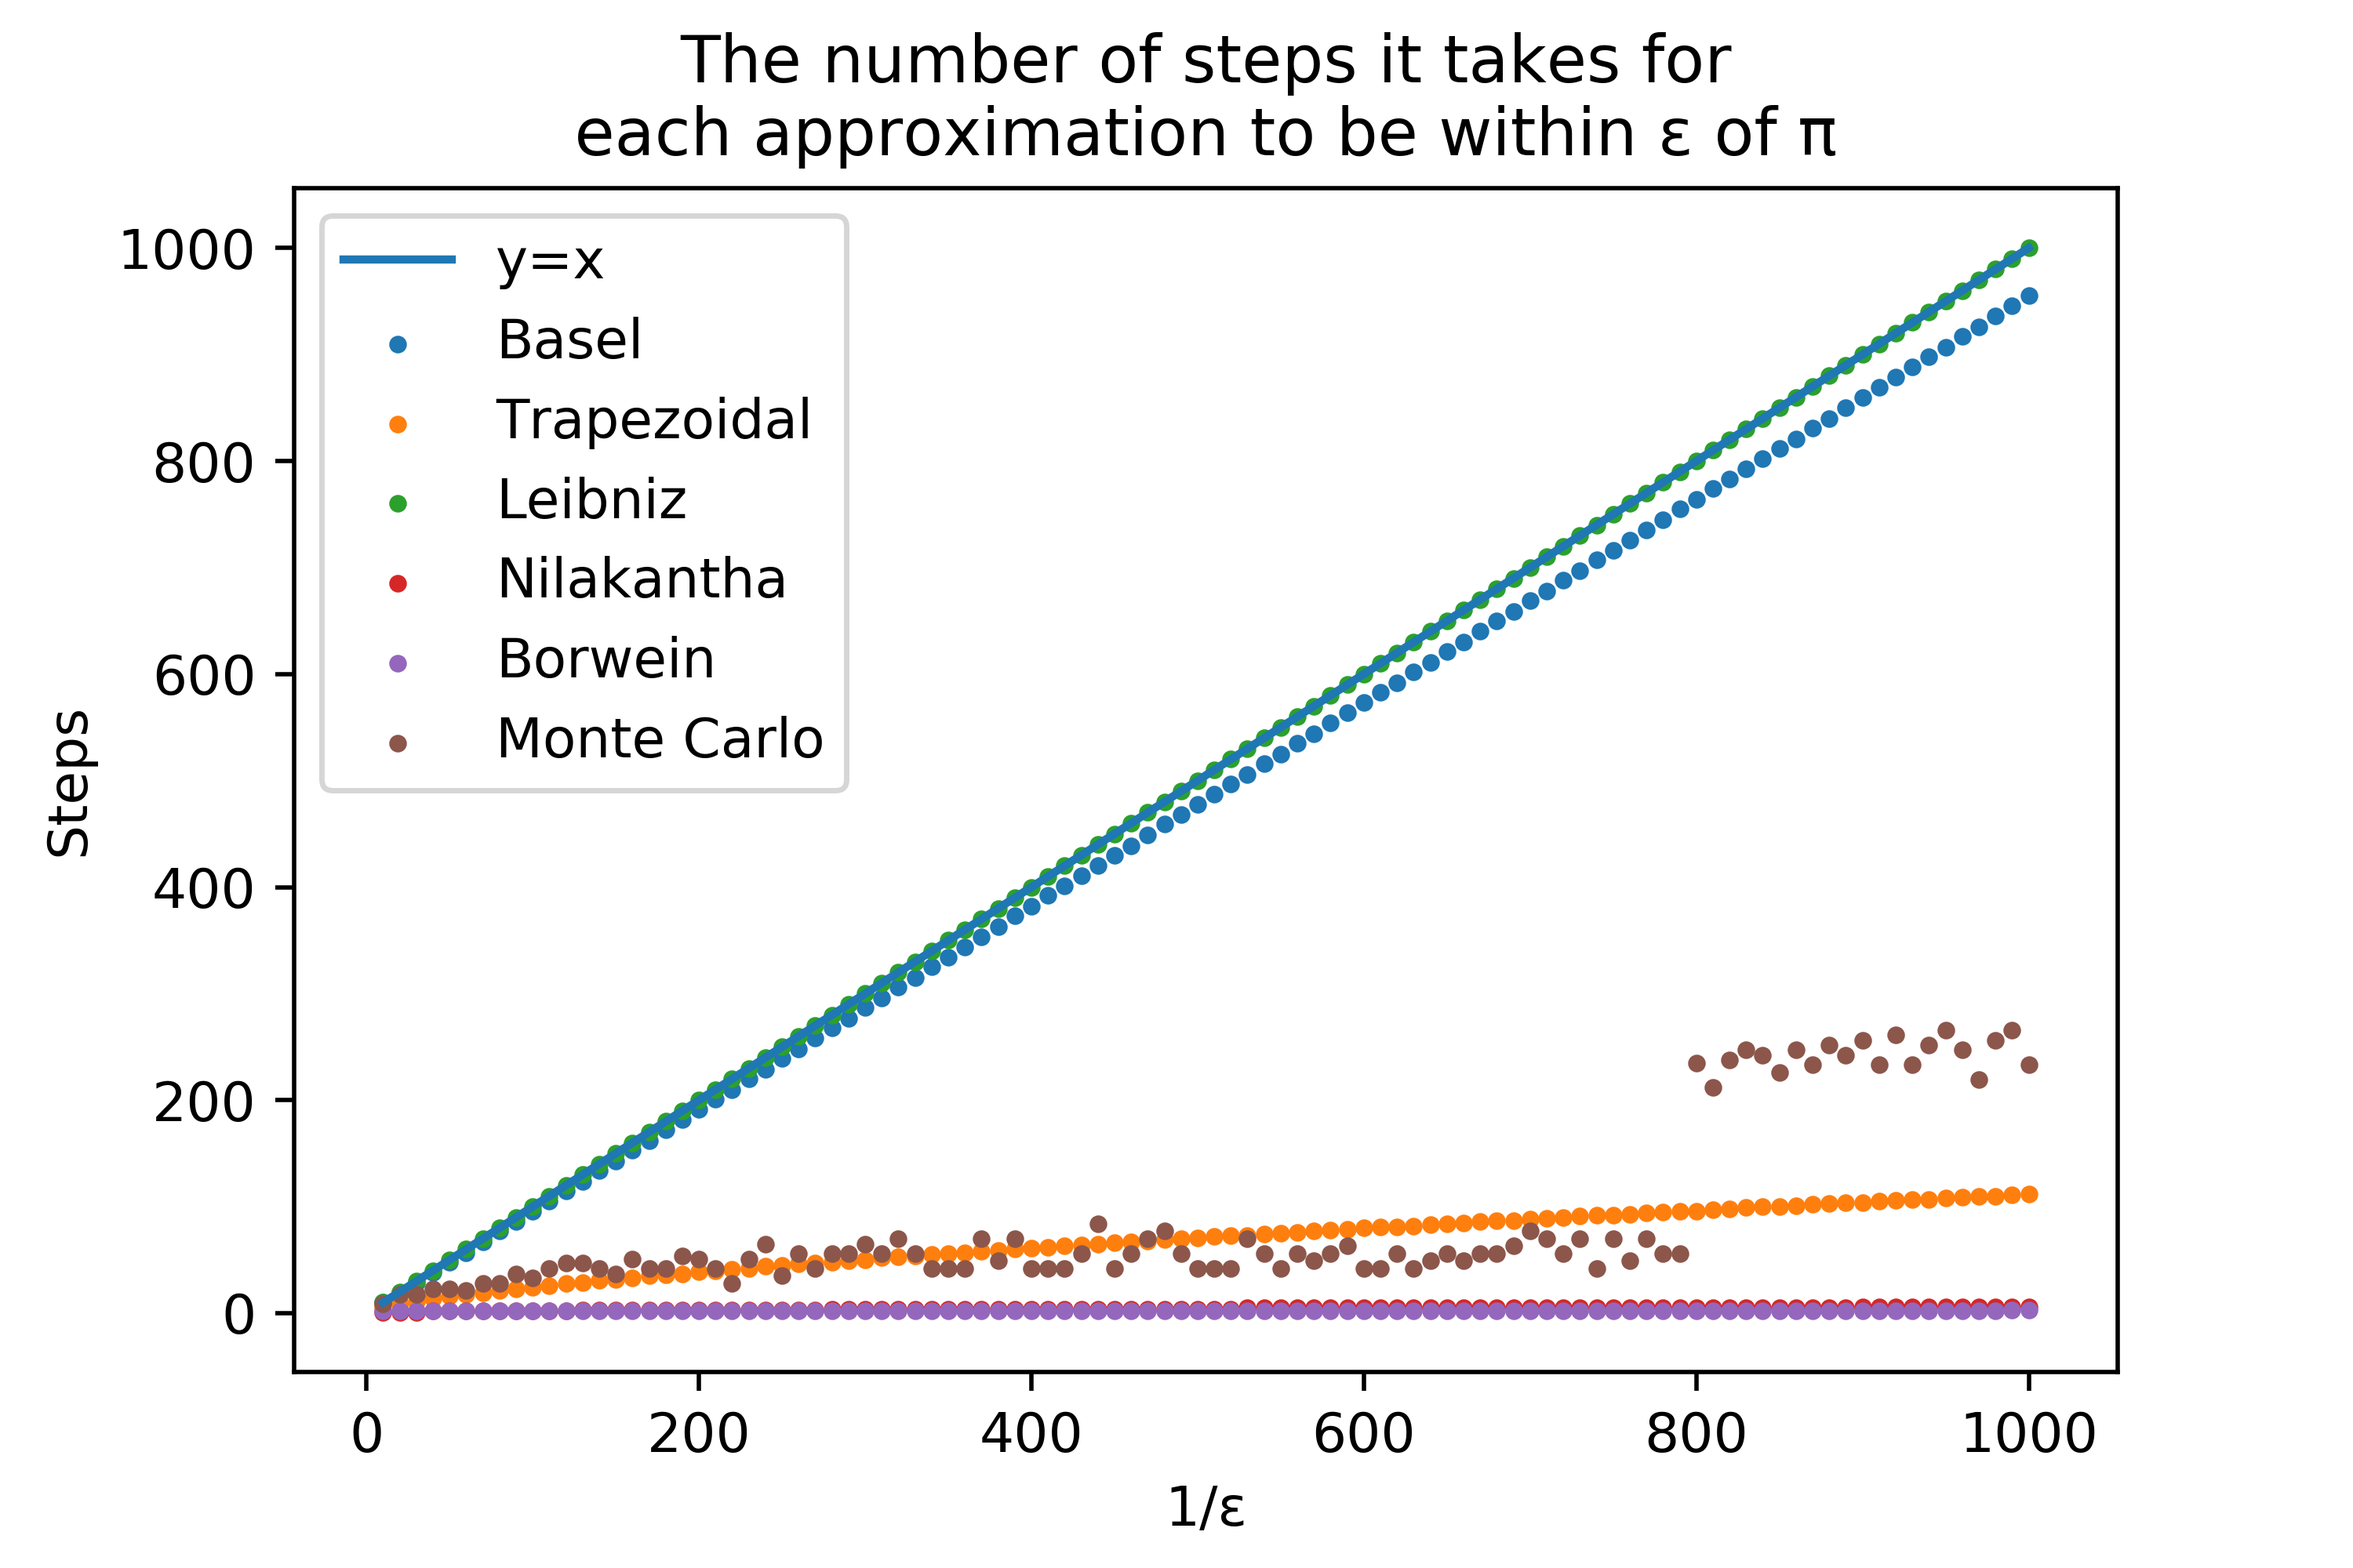
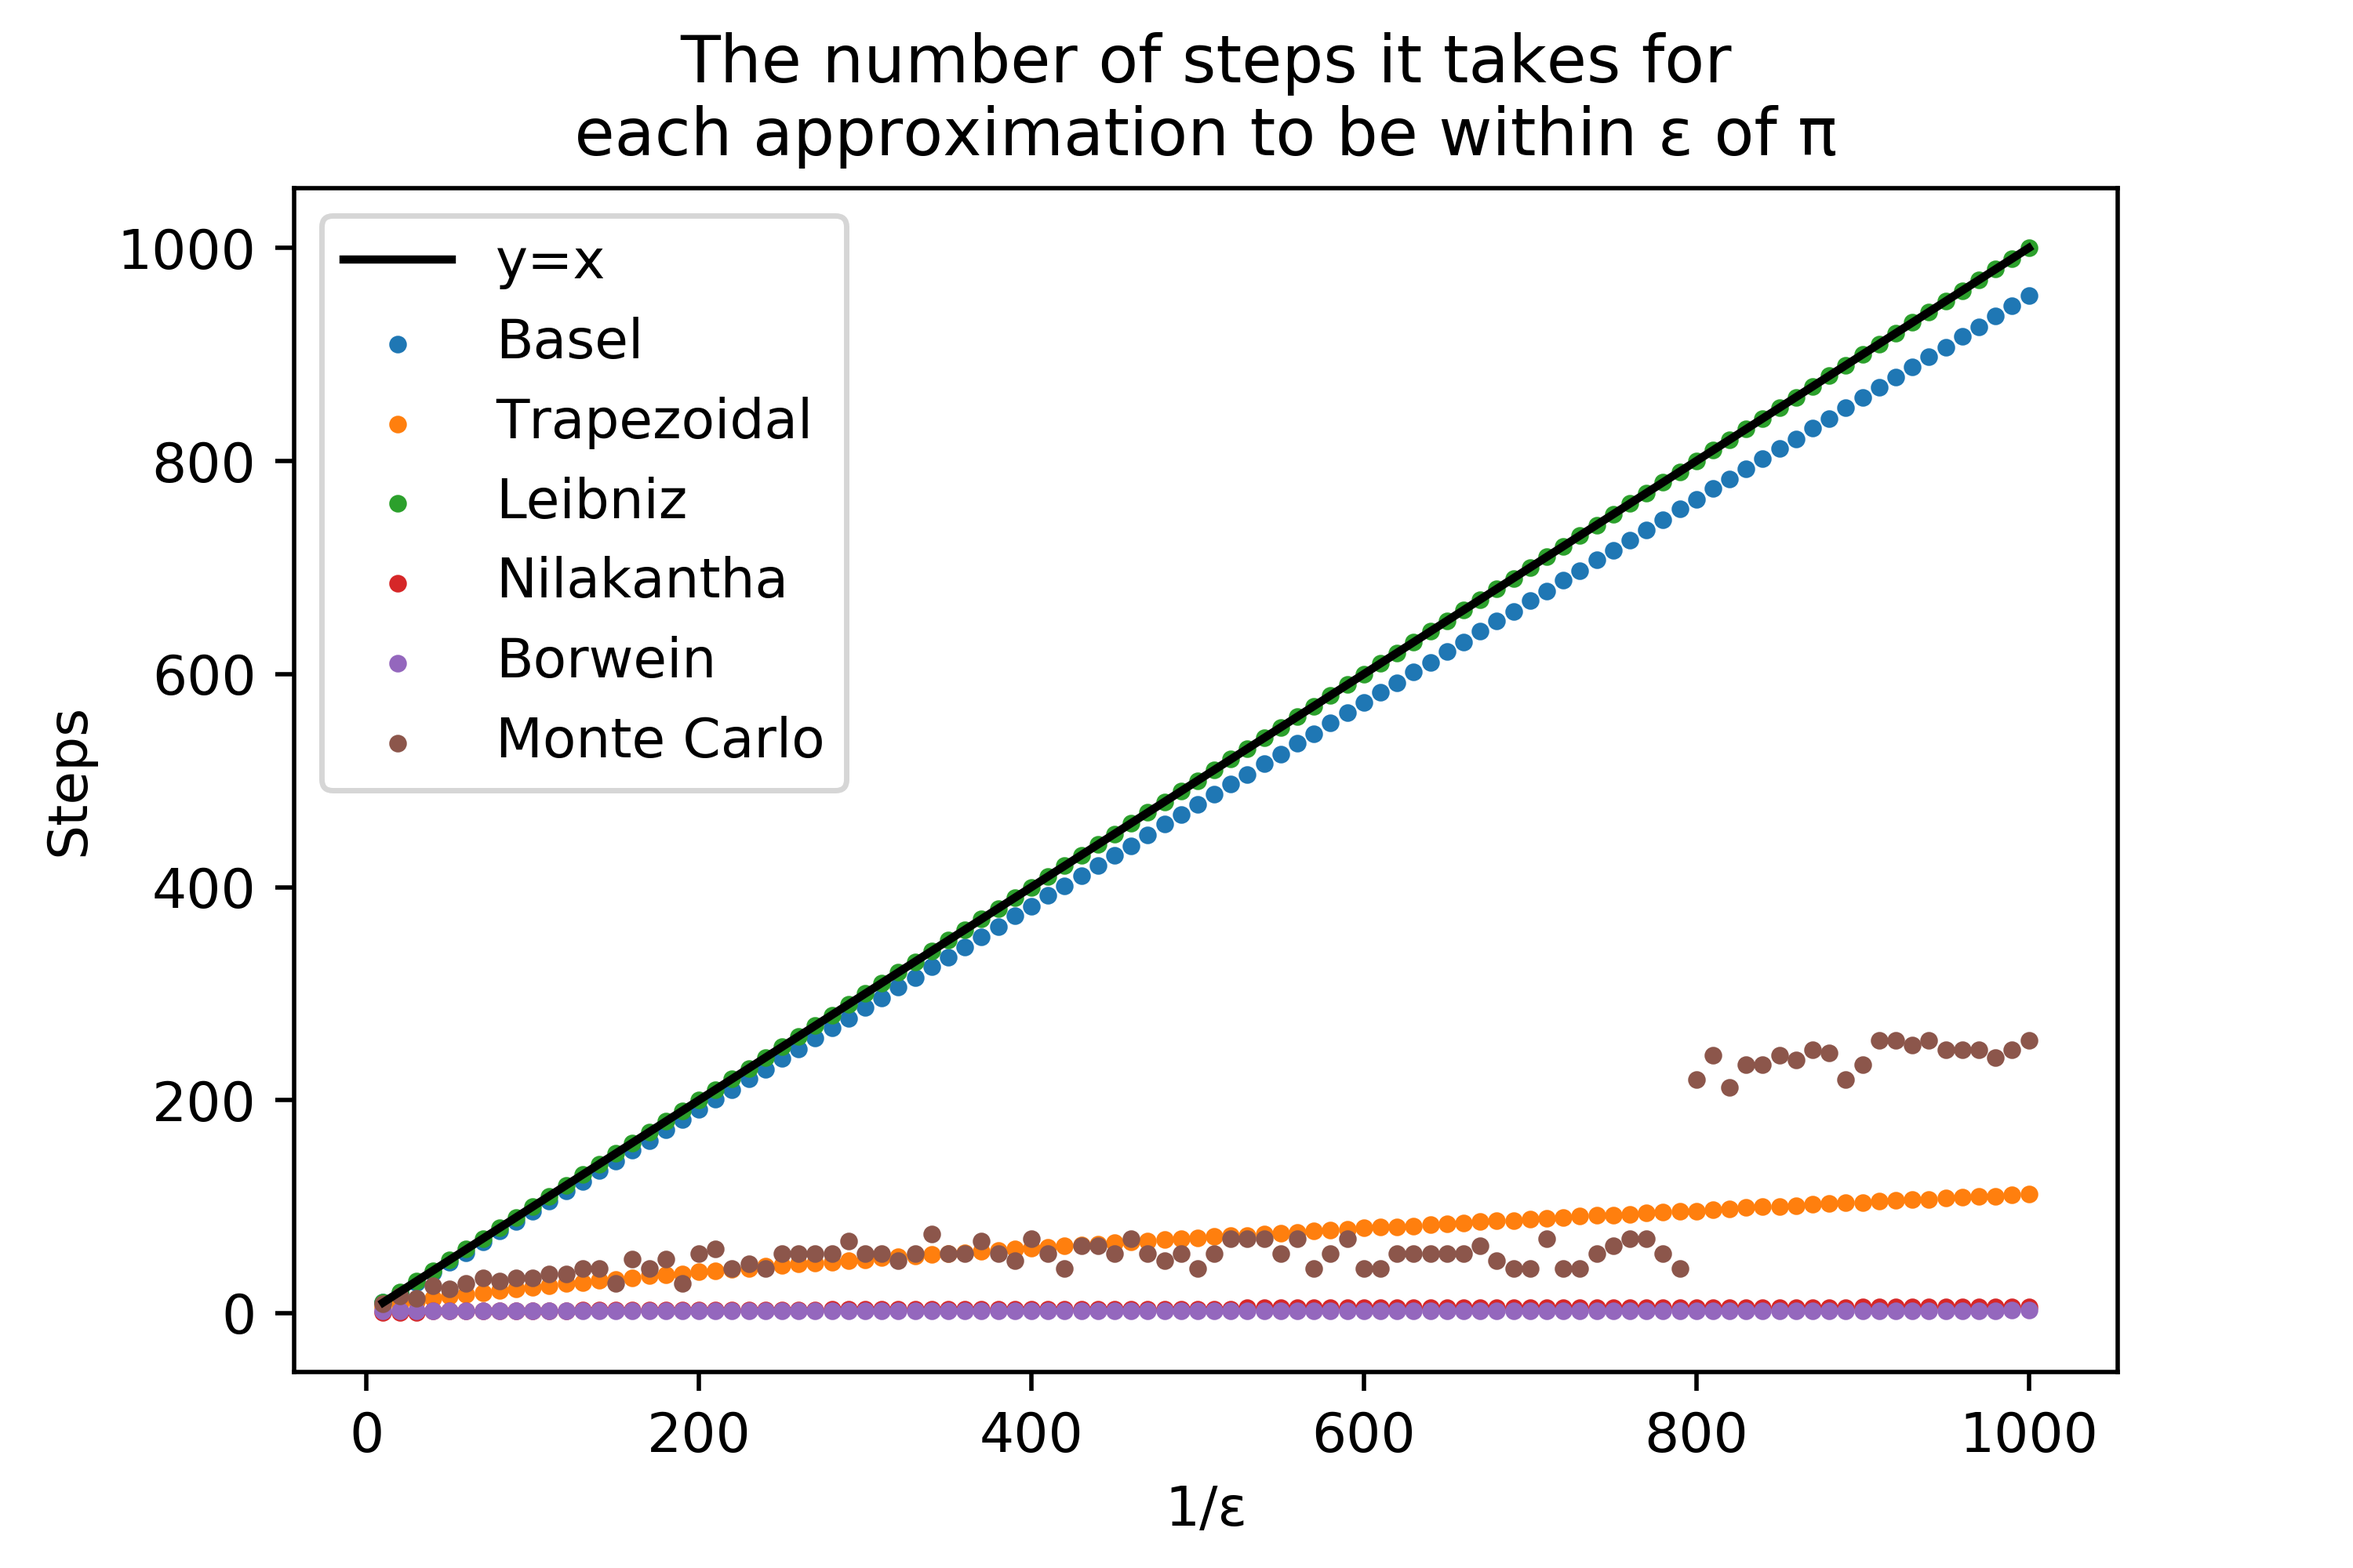
changed "steps...png"
changed y=x color to black

diff --git a/comparing_pi_estimates.py b/comparing_pi_estimates.py
@@ -154,7 +154,7 @@ borwein_count_list = [borwein_count(1/point) for point in x]
 monte_count_list = [monte_count(1/point) for point in x]
 
 
-plt.plot(x,x)    
+plt.plot(x,x, c='black')    
 plt.scatter(x, basel_count_list, s=5)
 plt.scatter(x, trapezoid_count_list, s=5)
 plt.scatter(x, leibniz_count_list, s=5)
